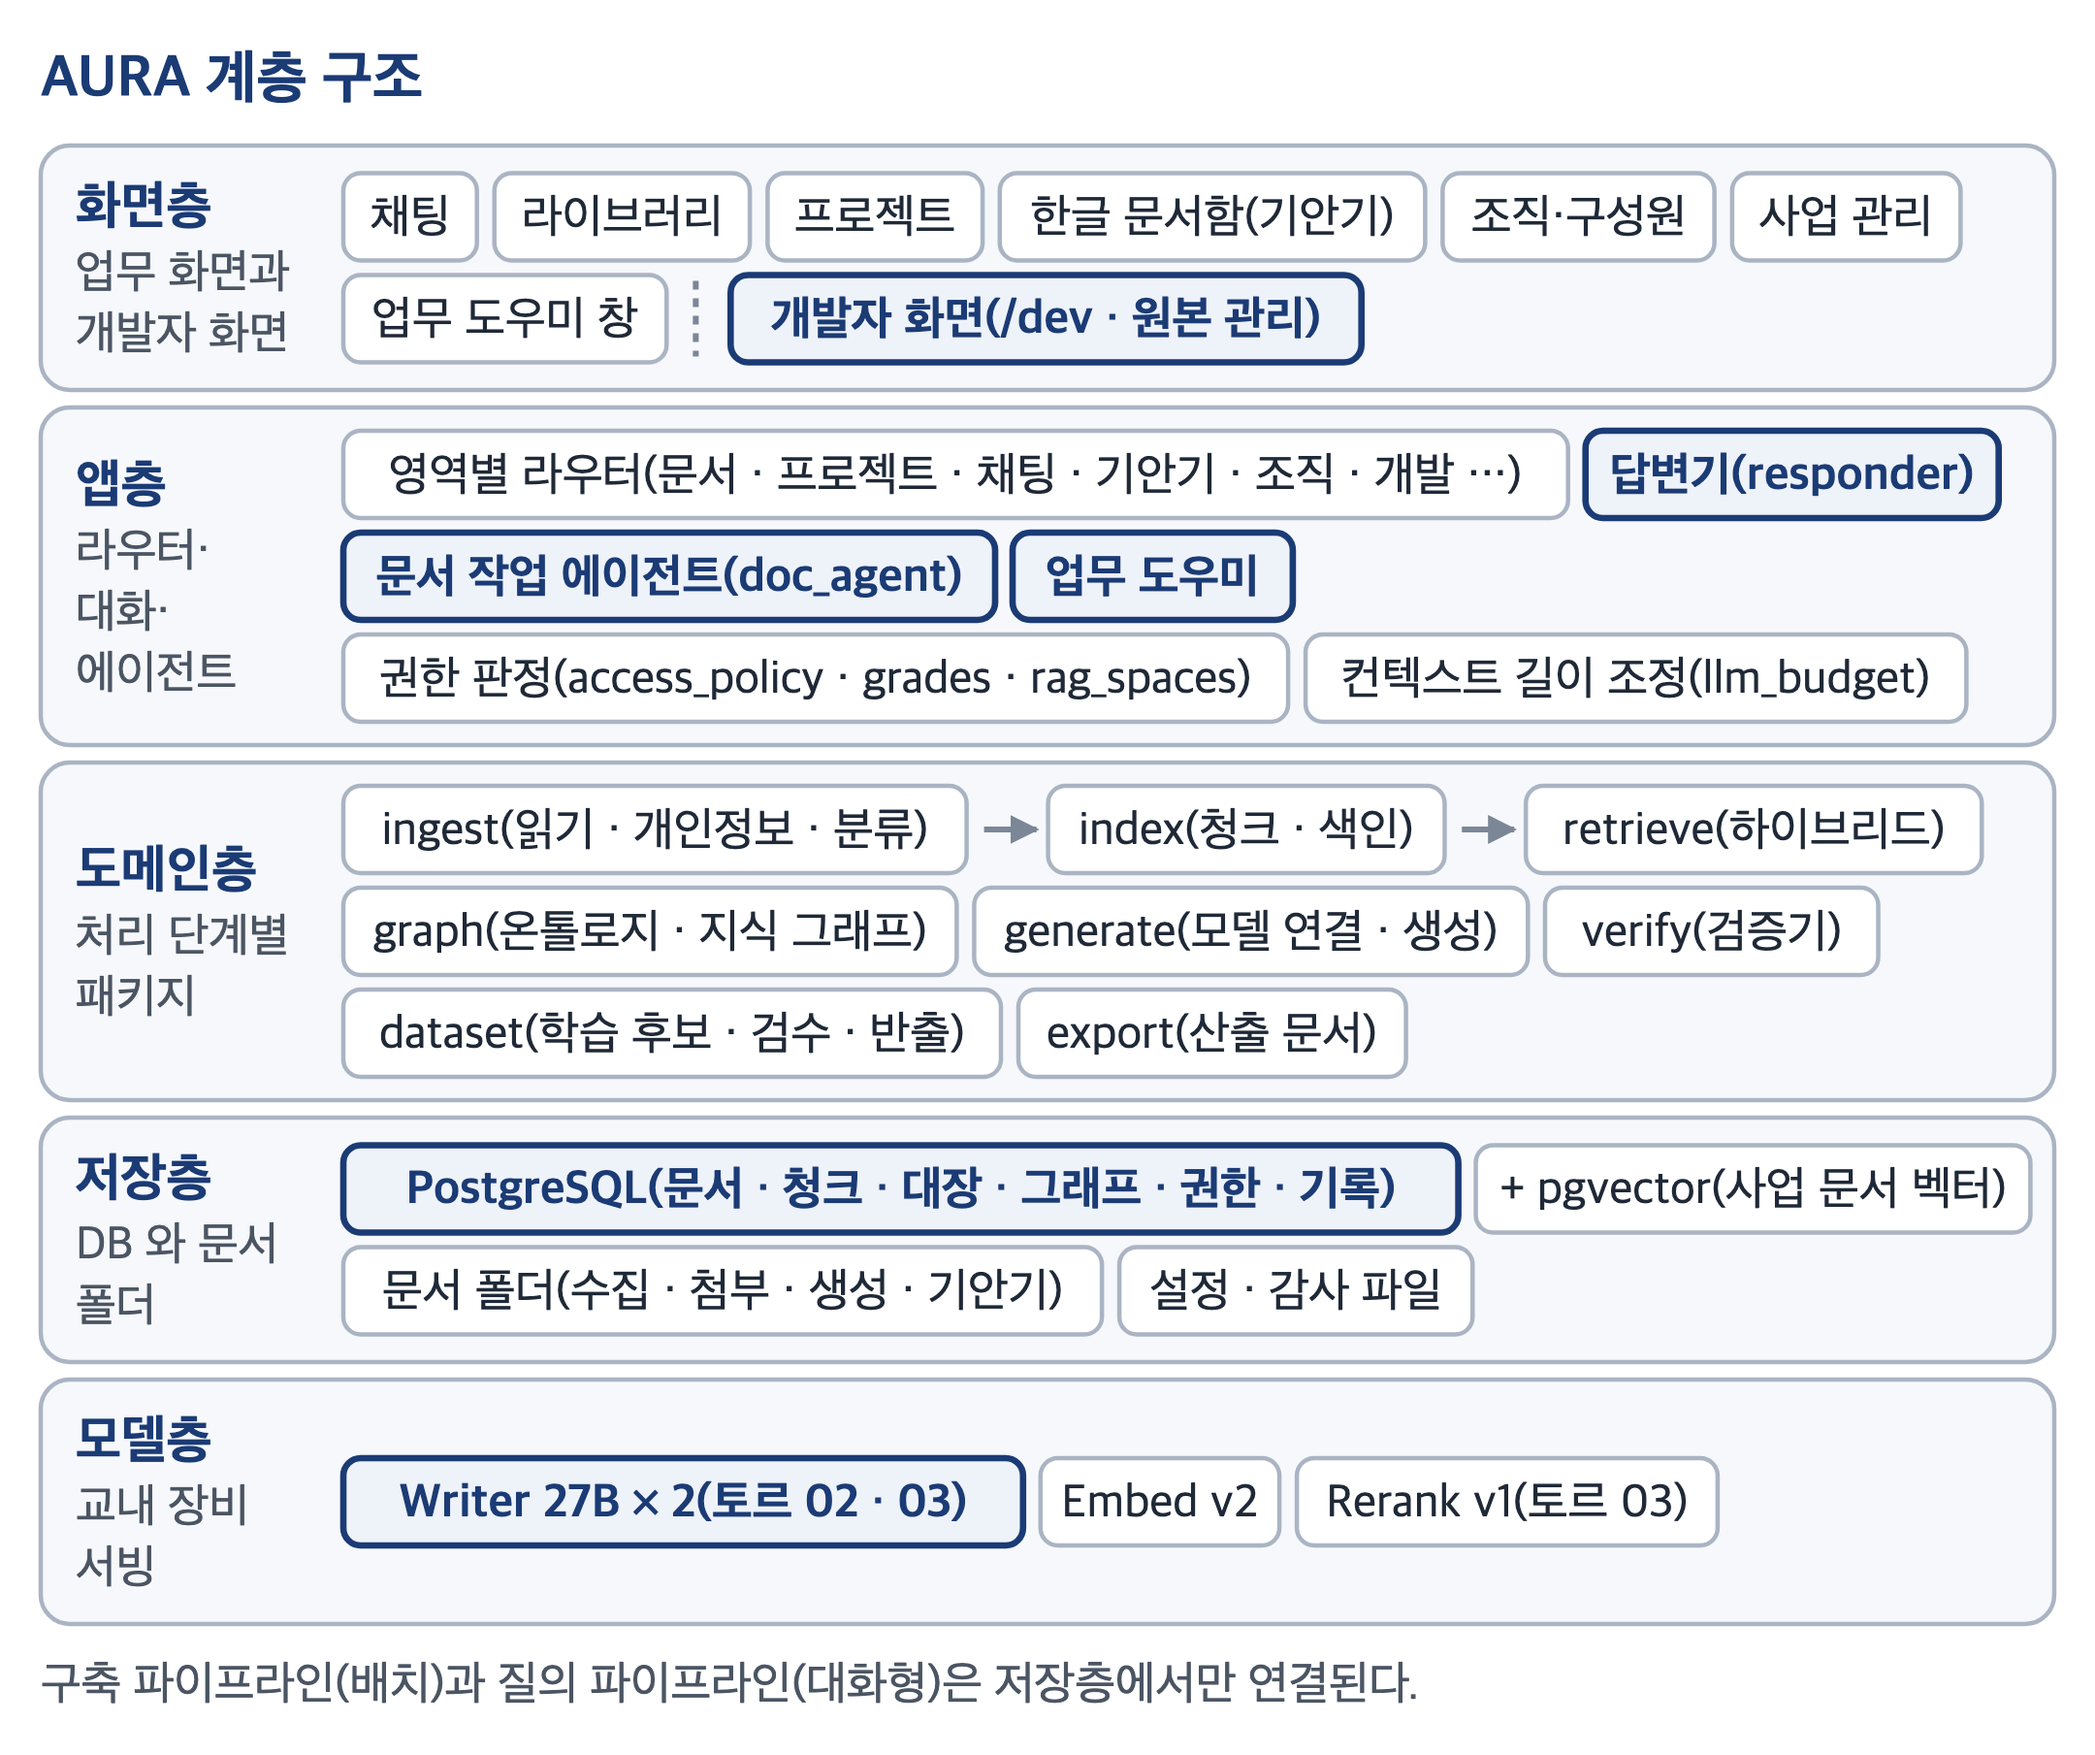
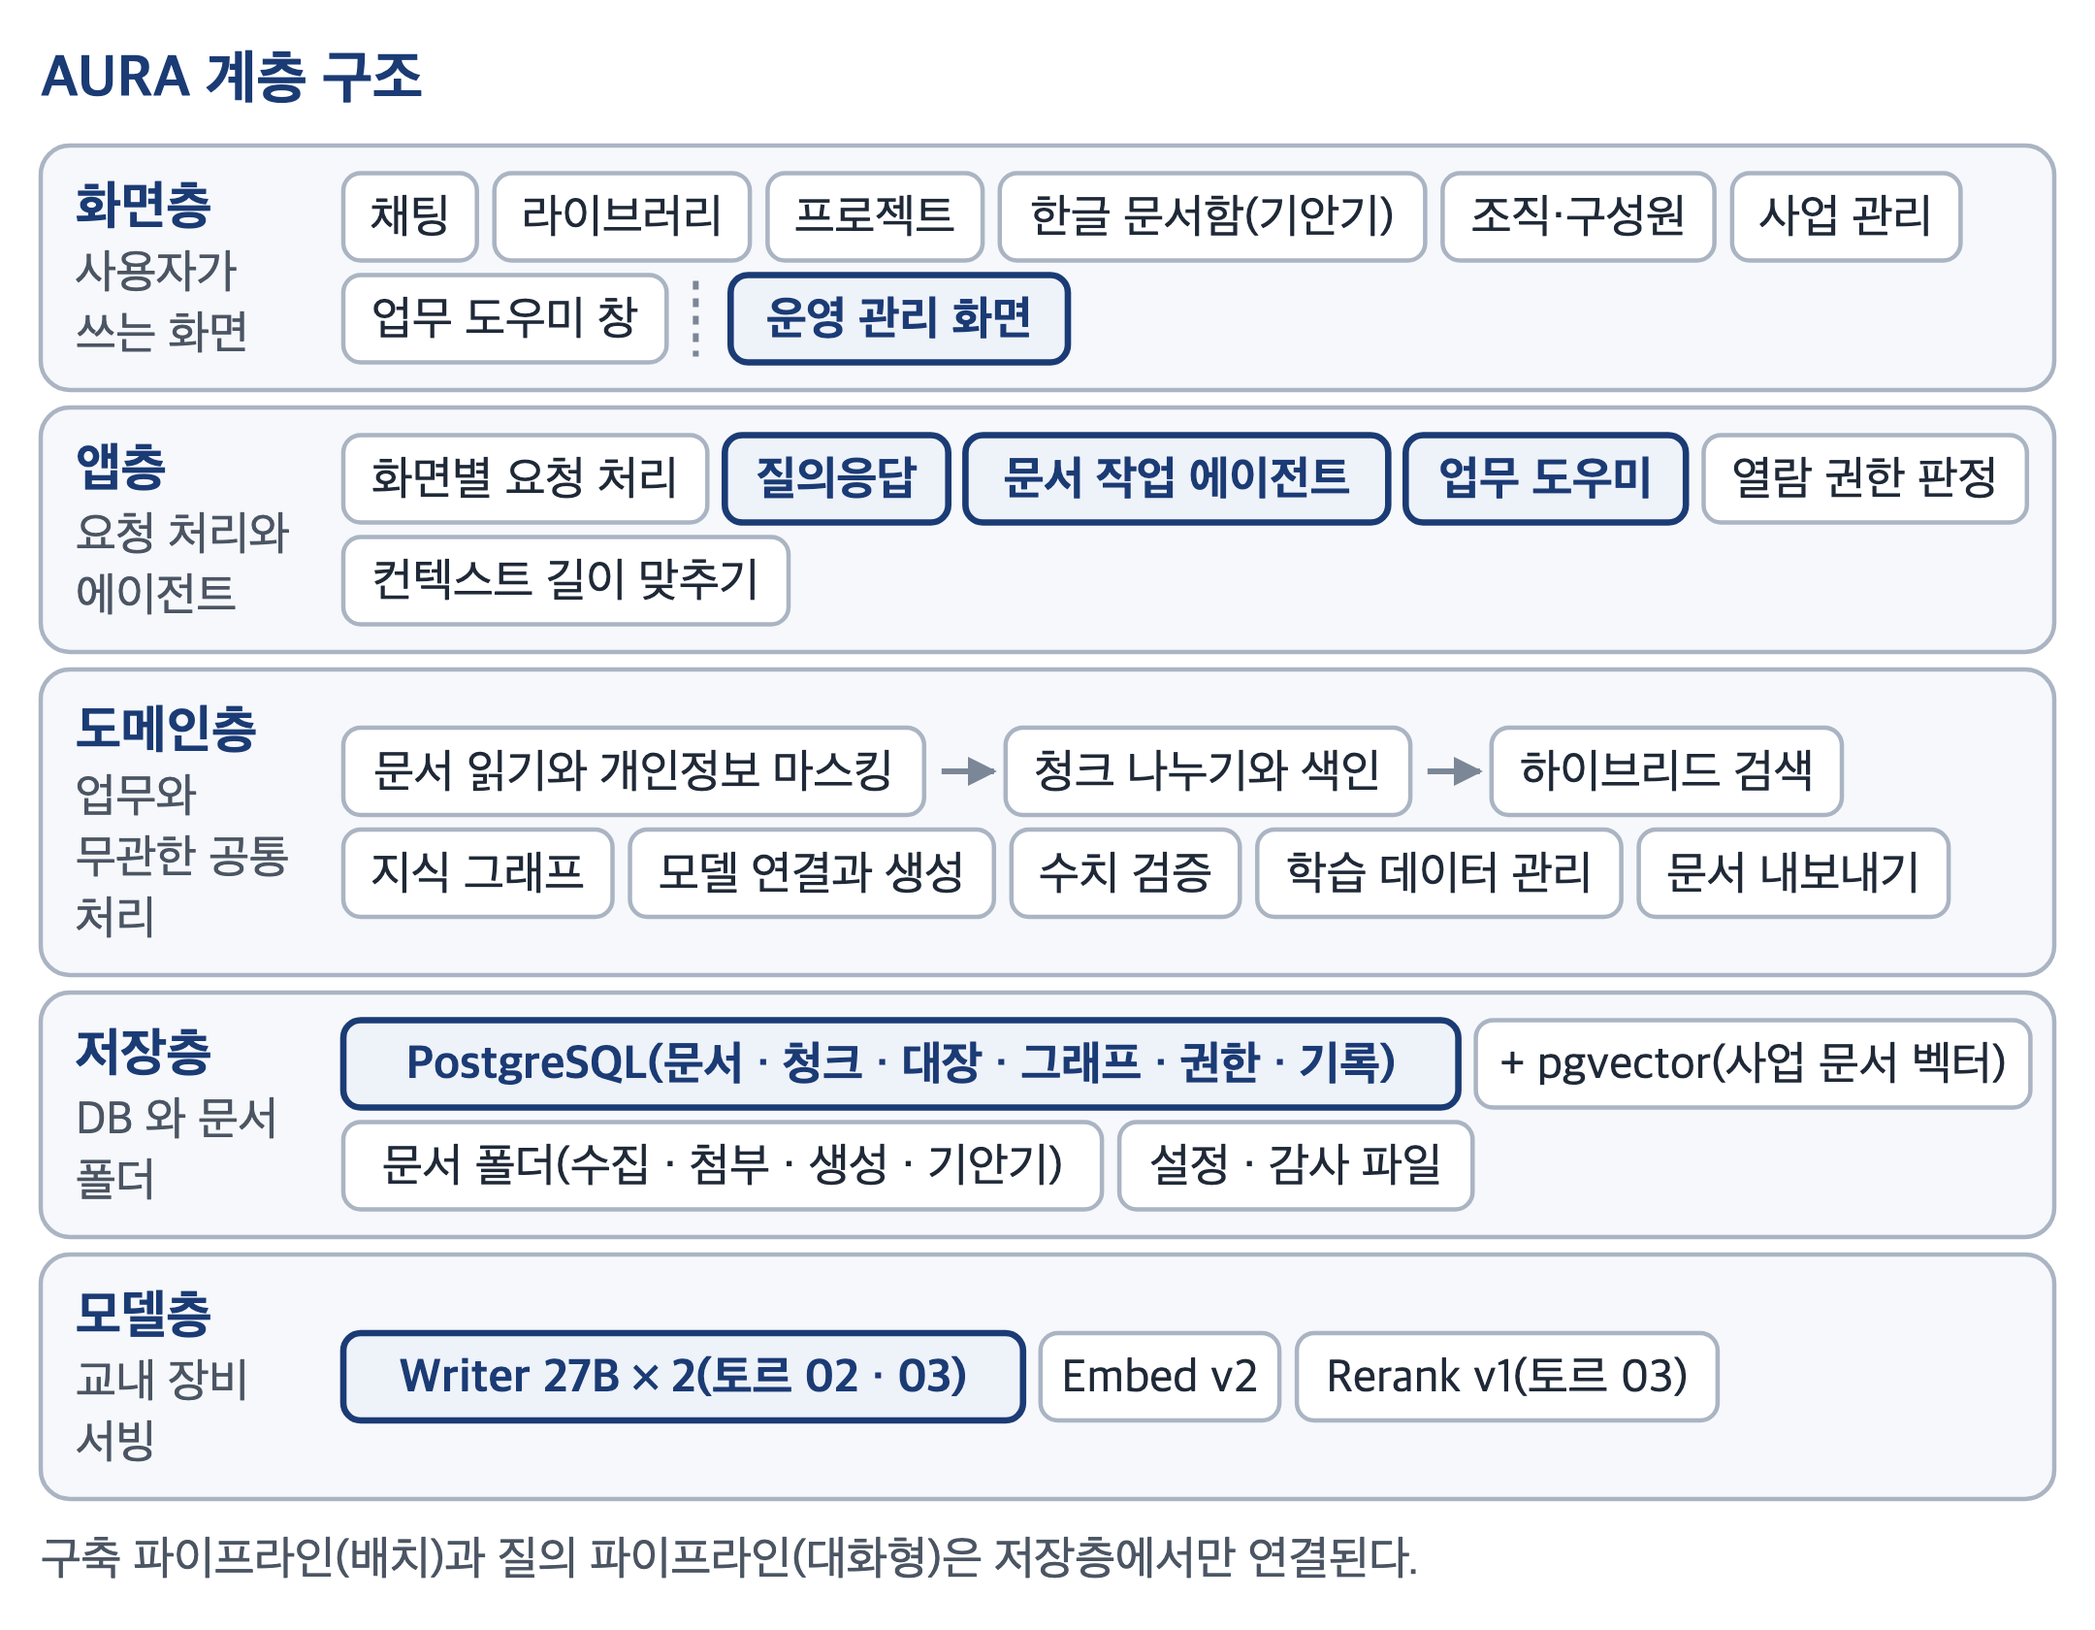
논문 그림: 2·4장 그림 쉬운 말로(코드 이름·토막 글 정리), 3-1 계층 구조 코드 이름 빼기, 3장 캡션·소개 문장 맞추기
[문서 무관] 논문 그림·원고

Changed region(s): [[0.0, 0.031, 0.9926, 0.9905]]

diff --git a/docs/images/diagrams/make_diagrams_ch34.py b/docs/images/diagrams/make_diagrams_ch34.py
@@ -57,14 +57,14 @@ def step_row(s: Svg, x, y, w, name, detail, *, name_w=150, strong=False, h=None)
 def layers():
     """[그림 3-1] 계층 구조."""
     spec = [
-        ("화면층", "업무 화면과 개발자 화면", [("채팅", 0), ("라이브러리", 0), ("프로젝트", 0), ("한글 문서함(기안기)", 0),
-                                  ("조직·구성원", 0), ("사업 관리", 0), ("업무 도우미 창", 0), ("|", 0), ("개발자 화면(/dev · 원본 관리)", 1)]),
-        ("앱층", "라우터·대화·에이전트", [("영역별 라우터(문서 · 프로젝트 · 채팅 · 기안기 · 조직 · 개발 …)", 0),
-                                   ("답변기(responder)", 1), ("문서 작업 에이전트(doc_agent)", 1), ("업무 도우미", 1),
-                                   ("권한 판정(access_policy · grades · rag_spaces)", 0), ("컨텍스트 길이 조정(llm_budget)", 0)]),
-        ("도메인층", "처리 단계별 패키지", [("ingest(읽기 · 개인정보 · 분류)", 0), ("→", 0), ("index(청크 · 색인)", 0), ("→", 0),
-                                 ("retrieve(하이브리드)", 0), ("graph(온톨로지 · 지식 그래프)", 0), ("generate(모델 연결 · 생성)", 0),
-                                 ("verify(검증기)", 0), ("dataset(학습 후보 · 검수 · 반출)", 0), ("export(산출 문서)", 0)]),
+        ("화면층", "사용자가 쓰는 화면", [("채팅", 0), ("라이브러리", 0), ("프로젝트", 0), ("한글 문서함(기안기)", 0),
+                                  ("조직·구성원", 0), ("사업 관리", 0), ("업무 도우미 창", 0), ("|", 0), ("운영 관리 화면", 1)]),
+        ("앱층", "요청 처리와 에이전트", [("화면별 요청 처리", 0),
+                                   ("질의응답", 1), ("문서 작업 에이전트", 1), ("업무 도우미", 1),
+                                   ("열람 권한 판정", 0), ("컨텍스트 길이 맞추기", 0)]),
+        ("도메인층", "업무와 무관한 공통 처리", [("문서 읽기와 개인정보 마스킹", 0), ("→", 0), ("청크 나누기와 색인", 0), ("→", 0),
+                                 ("하이브리드 검색", 0), ("지식 그래프", 0), ("모델 연결과 생성", 0),
+                                 ("수치 검증", 0), ("학습 데이터 관리", 0), ("문서 내보내기", 0)]),
         ("저장층", "DB 와 문서 폴더", [("PostgreSQL(문서 · 청크 · 대장 · 그래프 · 권한 · 기록)", 1), ("+ pgvector(사업 문서 벡터)", 0),
                                 ("문서 폴더(수집 · 첨부 · 생성 · 기안기)", 0), ("설정 · 감사 파일", 0)]),
         ("모델층", "교내 장비 서빙", [("Writer 27B × 2(토르 02 · 03)", 1), ("Embed v2", 0), ("Rerank v1(토르 03)", 0)]),
@@ -170,7 +170,7 @@ def build_flow():
     bw = (W - 2 * M - 2 * gap) / 3
     xs = [M + i * (bw + gap) for i in range(3)]
     y3 = y2 + bh + 30
-    outs = [("어휘 색인", ["낱말이 겹치는 글을 찾는 색인"]),
+    outs = [("어휘 색인", ["같은 단어가 든 글을 찾는 색인"]),
             ("의미 색인", ["뜻이 비슷한 글을 찾는 색인"]),
             ("지식 그래프", ["사업·연차·문서·절의 관계"])]
     oh = max(box_h(bw, t, ln) for t, ln in outs)

diff --git a/docs/images/diagrams/make_diagrams_ch2.py b/docs/images/diagrams/make_diagrams_ch2.py
@@ -400,8 +400,8 @@ def sse():
     s.arrow([(M + aw, y + 40), (sx, y + 40)])
     s.text(M + aw + gap / 2, y + 32, "POST", color=MUTED, anchor="middle", halo=True)
     s.para(M + aw + 8, y + 48, gap - 16, "편집 영역 변경", color=MUTED, anchor="start")
-    s.arrow([(sx, y + 120), (M + aw, y + 120)], dashed=True)
-    s.para(M + aw + 8, y + 128, gap - 16, "새 버전 번호", color=MUTED)
+    s.arrow([(sx, y + 92), (M + aw, y + 92)], dashed=True)
+    s.para(M + aw + 8, y + 100, gap - 16, "새 버전 번호", color=MUTED)
     y2 = y + shh + 34
     bw = 300
     chips = ["이벤트 41: 편집 영역 변경", "이벤트 42: 편집 잠금", "이벤트 43: 편집 영역 변경"]
